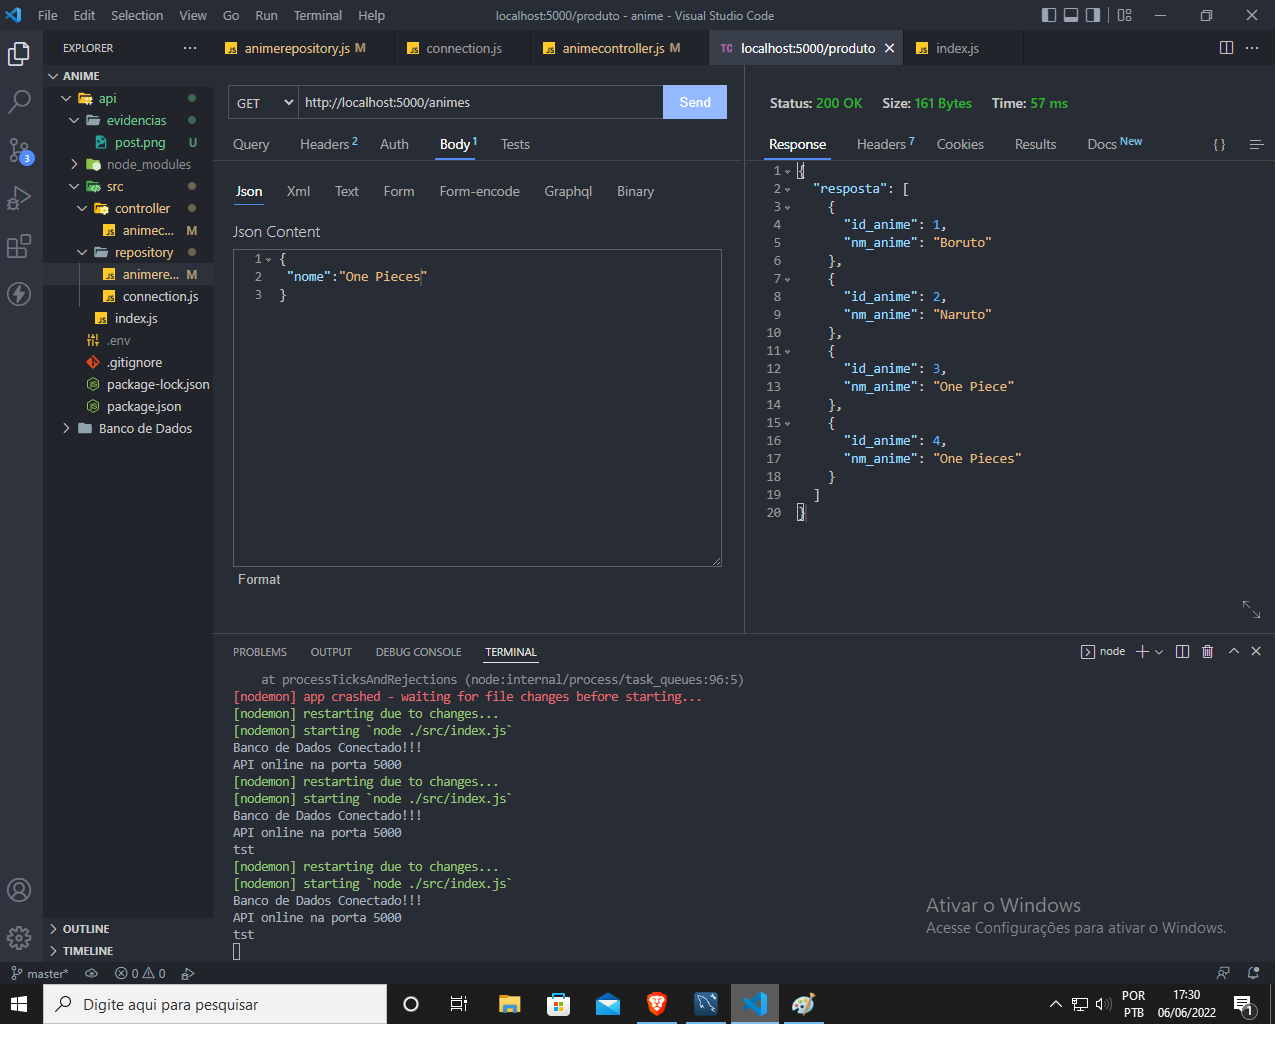
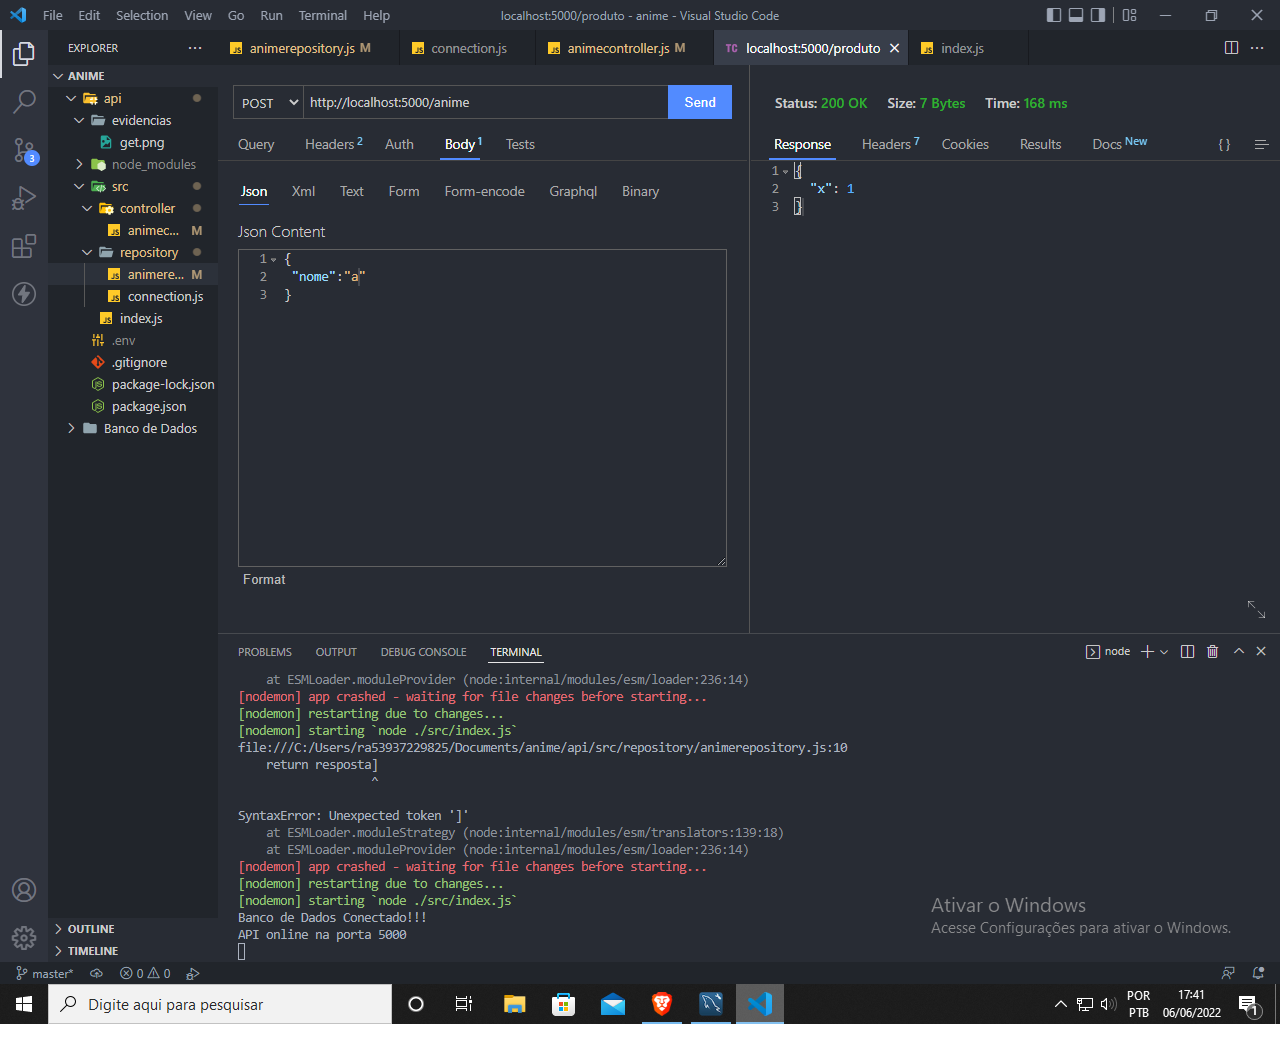
post ajustado

diff --git a/api/src/controller/animecontroller.js b/api/src/controller/animecontroller.js
@@ -14,7 +14,6 @@ server.post('/anime', async (req,resp) => {
 server.get('/animes', async (req,resp) =>{
     const resposta = await consultarAnime();
     resp.send({resposta})
-    console.log('tst')
 })
 
 export default server

diff --git a/api/src/repository/animerepository.js b/api/src/repository/animerepository.js
@@ -7,7 +7,7 @@ export async function inserirAnime(nome){
     
     const [resposta] = await con.query(comando, [nome.nome]);
 
-    return resposta
+    return resposta.affectedRows
 }
 
 export async function consultarAnime(){
